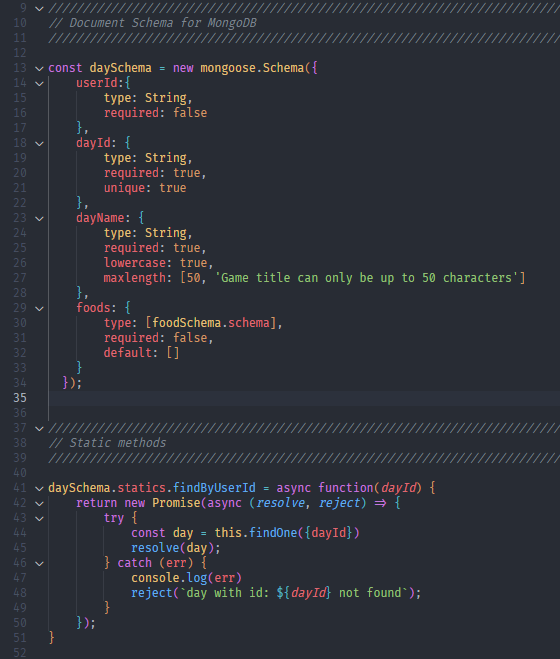
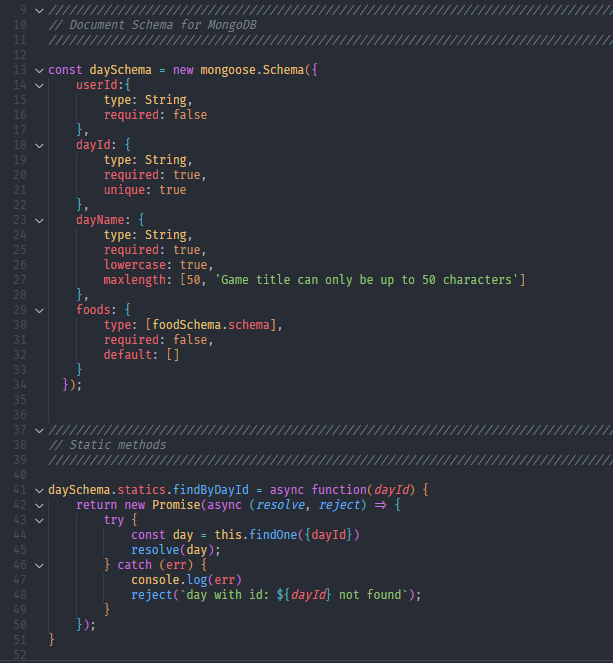
calorie tracker spelling mistakes altered

diff --git a/src/app/projectsList.ts b/src/app/projectsList.ts
@@ -35,15 +35,15 @@ export const PROJECTS: Project[] = [
         screenshot11: '../../../assets/images/calorieTracker/screenshot-11.png',
         screenshot11Description: 'The entry after a user has clicked the delete icon to remove a food object from this day. The food object is both deleted from the array of foods for this day, and the object is deleted from the database to avoid repeats. The calorie total is also updated automatically.',
         code1: '../../../assets/images/calorieTracker/code-1.png',
-        code1Description: 'The sever instance and routes for the backend of the application. As this app is designed to scale with more functionality, the MVC model has been used to allow for a structured folder and file system which enables far easier addition of new code. The middleware on line 68, causes all GET routes to check if a user is logged in before sending any resources. As seen below, some routes will "requireAuth", implementing required login state for certain areas of the application. Currently, the required routes are the "indexRoutes" for the home page, "authRoutes" to handle user login and "calorieRoutes" that handle requests from the front end in regards to the calorie tracking. Lines 75-77 show the catch-all used to allow the display of a custom 404 page if the user naviagates away from the avilable routes.',
+        code1Description: 'The sever instance and routes for the backend of the application. As this app is designed to scale with more functionality, the MVC model has been used to allow for a structured folder and file system which enables far easier addition of new code. The Middleware on line 68, causes all GET routes to check if a user is logged in before sending any resources. As seen below, some routes will "requireAuth", implementing required login state for certain areas of the application. Currently, the required routes are the "indexRoutes" for the home page, "authRoutes" to handle user login and "calorieRoutes" that handle requests from the front end in regards to the calorie tracking. Lines 75-77 show the catch-all used to allow the display of a custom 404 page if the user naviagates away from the avilable routes.',
         code2: '../../../assets/images/calorieTracker/code-2.png',
         code2Description: 'Middleware for the authentication. When users are logged in, a cookie is saved with the corresponding JSON Web Token (JWT) which this middle ware uses in each function. "requireAuth" checks for a cookie and goes to the next process in the stack with line 24 if it is valid, however if it doesnt not exist or is invalid, the user is redirecetd to the login page. This is applied to every endpoint that needs to be hidden from a non-logged in user - such as the page that displays eaten food. "checkUser" sets the local variable of "user" to the username if found so it can be displayed on the page in the header, if a user is not logged in this function simply passes the process along the stack with the user as null.',
         code3:  '../../../assets/images/calorieTracker/code-3.png',
         code3Description: 'A basic example from the controller, this is the index controller method called on a GET request to "/" and simply returns the index page. The EJS template for frontend views allows variables to be easily passed from the backend to the frontend. In this example the page title is set as "Home" and so the tab in the broswer will read "Calorie Tracker | Home". ',
         code4:  '../../../assets/images/calorieTracker/code-4.png',
-        code4Description: 'User authentication for this application requires the following routes, none of which include the "requireAuth" middleware. The function for each route can be found within the controller for authentication.',
+        code4Description: 'User authentication for this application requires the following routes, none of which include the "requireAuth" Middleware. The function for each route can be found within the controller for authentication.',
         code5:  '../../../assets/images/calorieTracker/code-5.png',
-        code5Description: 'Both of the GET requests respond with the approriate form to either login or create a new account. The signup form sends a POST request to "/signup" to add a new user where the controller function first deconstructs the request body to aquire the email, username and password. With this information, the a new "User" is added to the database and the token is created with their JWT, lasting 3 days after which the user will have to login back in. Similarly, the login form sends a POST request to "/login" where the User Schema\'s static method "login" is called to authenticate if that user exists in the database. If successful, the JWT cookie is created as before. In both cases, an unsuccessful login or signup will return a custom error handling object as seen below. To logout the cookie lifetime is set to 1 millisecond and so effectively is deleted.',
+        code5Description: 'Both of the GET requests respond with the approriate form to either login or create a new account. The signup form sends a POST request to "/signup" to add a new user where the controller function first deconstructs the request body to aquire the email, username and password. With this information, the a new "User" is added to the database and the token is created with their JWT, lasting 3 days after which the user will have to login back in. Similarly, the login form sends a POST request to "/login" where the User Schema\'s static method "login" is called to authenticate if that user exists in the database with Bcrypt compare. If successful, the JWT cookie is created as before. In both cases, an unsuccessful login or signup will return a custom error handling object as seen below. To logout the cookie lifetime is set to 1 millisecond and so effectively is deleted.',
         code6:  '../../../assets/images/calorieTracker/code-6.png',
         code6Description: 'When a user tries to login with an account that doesnt exist or signup with an already taken username, the database queries will fail and return an error. To aid the user, the exact nature of the failure is added to an error object sent back to the frontend after a failed POST request, allowing the frontend to display the error clearly.',
         code7:  '../../../assets/images/calorieTracker/code-7.png',
@@ -51,15 +51,15 @@ export const PROJECTS: Project[] = [
         code8:  '../../../assets/images/calorieTracker/code-8.png',
         code8Description: 'Mongoose allows for Schemas to have Hooks such as before and after saving a new object to the database. I have added a pre Hook to salt and hash passwords using the bcrypt library, which is an essential feature for security as it prevents user passwords being vunerable to data leaks or unauthorizied access as the .env file contains the JWT secret and is not uploaded to the GitHub thanks to .gitignore.',
         code9:  '../../../assets/images/calorieTracker/code-9.png',
-        code9Description: 'The "Day" Schema the template for day objects to be added to each user. As such, each contains a "userId" which associates it with the logged in user. This is not unique as there is a One to Many relationship occuring, where each user may have many days of tracking but each day object can only be associated with a single user. "dayId" is unique so no 2 day objects can be added for each user and is created by appending the "userId" onto the current day number - e.g. for user 777, day 1 would have the "dayId" 1777. Similarly to users, each day can contain foods, which is added as an array of food objects. It is not required as when it was required, no new days could be created without having already having food and since you cannot create a food object before a day, no new days would be added. The static method "findByUserId" was created to allow the calorie controller to return a day for a user given the "userId". Previously I was trying to use "findById" but this is a built in Mongoose method that uses the auto generated "_id" and so was causing errors. This allows the day to be found easily for use in the calorie controller.',
+        code9Description: 'The "Day" Schema the template for day objects to be added to each user. As such, each contains a "userId" which associates it with the logged in user. This is not unique as there is a One to Many relationship occuring, where each user may have many days of tracking but each day object can only be associated with a single user. "dayId" is unique so no 2 day objects can be added for each user and is created by appending the "userId" onto the current day number - e.g. for user 777, day 1 would have the "dayId" 1777. Similarly to users, each day can contain foods, which is added as an array of food objects. It is not required as when it was required, no new days could be created without having already having food and since you cannot create a food object before a day, no new days would be added. The static method "findByDayId" was created to allow the calorie controller to return a day for a user given the "dayId" witht he Mongoose method "findOne". Previously I was trying to use "findById" but this is a built in Mongoose method that uses the auto generated "_id" and so was causing errors. Since each day has been linked to the user and contains the day number for a unique dayId, the correct day can easily be found and returned.',
         code10: '../../../assets/images/calorieTracker/code-10.png',
         code10Description: 'For food, the "userDayId" field is populated with the "dayId" with the associated day with "-Number" appended. E.g. if user 777 added an apple to day 1, "userDayId" would be 1777-1. The name of each food added an calorie amount is aquired from an external database when the food is added via POST requets to "/calorie" in the backend to protect my API key located in the .env file.',
         code11: '../../../assets/images/calorieTracker/code-11.png',
-        code11Description: 'The header partial is applied to all pages and contains conditonal rendering between lines 33 and 48. If a user exists as seen previously from the authentication middleware, then display "Welcome username" and the logout button, else the login and signup buttons.',
+        code11Description: 'The header partial is applied to all pages and contains conditonal rendering between lines 33 and 48. If a user exists as seen previously from the authentication Middleware, then display "Welcome username" and the logout button, else the login and signup buttons.',
         code12: '../../../assets/images/calorieTracker/code-12.png',
         code12Description: 'An example of an EJS template. The partials included in each page are the header and footer components located in a seperate folder/file, similar to React or Angular. This pacticular page is for the login form.',
         code13: '../../../assets/images/calorieTracker/code-13.png',
-        code13Description: 'The routes for the calorie part of the application. The GET requests require the authentication middleware to prevent logged out users accessing the resources as everything is linked to users by Id.',
+        code13Description: 'The routes for the calorie part of the application. The GET requests require the authentication Middleware to prevent logged out users accessing the resources as everything is linked to users by Id.',
         code14: '../../../assets/images/calorieTracker/code-14.png',
         code14Description: 'When a user goes to "/days", this code is ran in the browser. A GET request to "/daysList" will return the array of day objects associated with that user. These are then iterated over to populate the table of days seen on the page. Each day is given the href of "/entry/:dayId" so clicking on each day will take you to the entry for said day.',
         code15: '../../../assets/images/calorieTracker/code-15.png',
@@ -67,23 +67,21 @@ export const PROJECTS: Project[] = [
         code16: '../../../assets/images/calorieTracker/code-16.png',
         code16Description: 'To add a day, a user enters a number into the bar at the top of the page and presses "Add". This form has an event listener as seen here that fires a POST request to "/days" with the number entered as dayName, validated by the client only allowing positive integers to be enetered. If this cannot be added to the database (due to a repeated day), the custom errors object is resolved and used to display to the user. ',
         code17: '../../../assets/images/calorieTracker/code-17.png',
-        code17Description: 'On the server side, the cookie is once again used to aquire the userId. A new object is then added to the database with a userId equal to the userId of the user logged in, and a dayId equal to the userId with the day number on appened to the beginning. The dayName is equal to "day" + number. Once sucessfully created, a new Promise is used push the new day object to the array of days on the user object - an example of where nested documents in NoSQL is helpful. These processes are surrouded by a try catch to ensure the errors can be handled if occuring.',
+        code17Description: 'On the server side, the cookie is once again used to aquire the userId. A new object is then added to the database with a userId equal to the userId of the user logged in, and a dayId equal to the userId with the day number on appened to the beginning. The dayName is equal to "day" + number. Once sucessfully created, a new Promise is used push the new day object to the array of days on the user object - an example of where nested documents in NoSQL is helpful. These processes are surrounded by a try catch to ensure the errors can be handled if occuring.',
         code18: '../../../assets/images/calorieTracker/code-18.png',
         code18Description: 'Since the URL parameters are added on the days page for navigation to this page, the entry page can be served with an EJS variable for the entry of foods for each day. Making a GET request to "/entry/:id" will fire this function in the controller. The URL parameters are deconstructed and passed into the static method of "findByDayId" on the Day Schema.' ,
-        code19: '../../../assets/images/calorieTracker/code-19.png',
-        code19Description: 'The static method of "findByDayId" on the Day Schema uses the dayId to query the database with the mongoose method "findOne" by field. Since each day has been linked to the user and contains the day number for a unique dayId, the correct day can easily be found and returned.' ,
-        code20: '../../../assets/images/calorieTracker/code-20.png',
-        code20Description: 'EJS allows for very simple rendering when given expected input. The entry page uses the "foodList" property rendered by the GET request for this page, which contains the foods array of the day clicked on. The array is then iterated through to populate the table and calculate the total calories. The user can add more food with the "Add A Food!" button or delete a food from this day with the red delete icon.' ,
-        code21: '../../../assets/images/calorieTracker/code-21.png',
-        code21Description: ' The user enters the food name and amount in the form (which is validated client side by only allowing text in the food name input and numbers in the grams input) and presses add, which fires this event listener. The first request is a POST to "/next" to calculate the id of the food to be added. The second request is to a POST to "/calorie". If successful, this will add a new food object to the database and append it to the food array for the day the user was adding to.' ,
-        code22: '../../../assets/images/calorieTracker/code-22.png',
-        code22Description: 'This function in the calorie controller is used to calculate the id of the new food. To ensure a unique Id, the "userDayId" field is populated with the "dayID" of the day being added to + "-" and the counter of added foods so far. E.g. for user 777, on day 1, the first food added will have the id of 1777-1, the second will be "1777-2, day 2 will be "2777-1" and so on. This method will work out the highest -number and return one higher. So in the event a food of -3 is deleted but -4 is still there, the next food will still be -5.' ,
-        code23: '../../../assets/images/calorieTracker/code-23.png',
-        code23Description: 'To aquire the data for the calorie amount, a 3rd party API is called (from the backend to hide my API key) with the query of food name and amount. Once the calorie number has been aquired, the correct day must be to get the correct mongoose "_id" to query. This "_id_" along with the dayId + "-" + "id of food", food name and calorie amount are used to create a new Food object. If successful, a Promise (as this may take some time) is then used to find the day and push the new Food object to the array of foods for the correct day. The id system used in this application allows for each day and food to easily be identified and queried.' ,
-        code24: '../../../assets/images/calorieTracker/code-24.png',
-        code24Description: 'Finally, if a user wants to delete a food from a paticular day, they can click on the red delete icon to do so from the entry page at "/entry/:id". Clicking this icon fires a DELETE requets to "/days" passing the dayId from the URL parameters and the id on the food (the "-num").' ,
-        code25: '../../../assets/images/calorieTracker/code-25.png',
-        code25Description: 'The delete function in the calorie controller for this endpoint does 2 things. Firstly, the "-id" property ("userDayId") is used to delete the food from the database. Secondly, the day this food is associated with is found by the static "findByDayId" as before to get the "_id". A Promise is then again used to remove the food from the foods array for that day.' ,
+        code19: '../../../assets/images/calorieTracker/code-20.png',
+        code19Description: 'EJS allows for very simple rendering when given expected input. The entry page uses the "foodList" property rendered by the GET request for this page, which contains the foods array of the day clicked on. The array is then iterated through to populate the table and calculate the total calories. The user can add more food with the "Add A Food!" button or delete a food from this day with the red delete icon.' ,
+        code20: '../../../assets/images/calorieTracker/code-21.png',
+        code20Description: ' The user enters the food name and amount in the form (which is validated client side by only allowing text in the food name input and numbers in the grams input) and presses add, which fires this event listener. The first request is a POST to "/next" to calculate the id of the food to be added. The second request is to a POST to "/calorie". If successful, this will add a new food object to the database and append it to the food array for the day the user was adding to.' ,
+        code21: '../../../assets/images/calorieTracker/code-22.png',
+        code21Description: 'This function in the calorie controller is used to calculate the id of the new food. To ensure a unique Id, the "userDayId" field is populated with the "dayID" of the day being added to + "-" and the counter of added foods so far. E.g. for user 777, on day 1, the first food added will have the id of 1777-1, the second will be "1777-2, day 2 will be "2777-1" and so on. This method will work out the highest -number and return one higher. So in the event a food of -3 is deleted but -4 is still there, the next food will still be -5.' ,
+        code22: '../../../assets/images/calorieTracker/code-23.png',
+        code22Description: 'To aquire the data for the calorie amount, a 3rd party API is called (from the backend to hide my API key) with the query of food name and amount. Once the calorie number has been aquired, the correct day must be to get the correct Mongoose "_id" to query. This "_id_" along with the dayId + "-" + "id of food", food name and calorie amount are used to create a new Food object. If successful, a Promise (as this may take some time) is then used to find the day and push the new Food object to the array of foods for the correct day. The id system used in this application allows for each day and food to easily be identified and queried.' ,
+        code23: '../../../assets/images/calorieTracker/code-24.png',
+        code23Description: 'Finally, if a user wants to delete a food from a paticular day, they can click on the red delete icon to do so from the entry page at "/entry/:id". Clicking this icon fires a DELETE requets to "/days" passing the dayId from the URL parameters and the id on the food (the "-num").' ,
+        code24: '../../../assets/images/calorieTracker/code-25.png',
+        code24Description: 'The delete function in the calorie controller for this endpoint does 2 things. Firstly, the "-id" property ("userDayId") is used to delete the food from the database. Secondly, the day this food is associated with is found by the static "findByDayId" as before to get the "_id". A Promise is then again used to remove the food from the foods array for that day.' ,
     },
     {
         id: 1,
@@ -95,7 +93,7 @@ export const PROJECTS: Project[] = [
         stamp: '../../../assets/images/stamps/personal-pink-clear.png',
         framework: '../../../assets/images/frameworkIcons/java-logo.png',
         screenshot1: '../../../assets/images/jigsawHelper/gui.png',
-        screenshot1Description: 'The GUI for this Java application. The application interface is split into the 3 key areas: "The Finished Puzzle", "The Indivdiual Piece" and "The Location!!!!". In the top left, a user can upload an image of the puzzle (such as from the box), see more information and view the full size image. The same functionality occurs where the user is invited to upload the puzzle piece they need help locating. The location section is where the user will recieve the answer to the loaction of the piece within the finished image, only once the 2 uploads have been carried out.',
+        screenshot1Description: 'The GUI for this Java application. The application interface is split into the 3 key areas: "The Finished Puzzle", "The Indivdiual Piece" and "The Location!!!!". In the top left, a user can upload an image of the puzzle (such as from the box), see more information and view the full size image. The same functionality occurs where the user is invited to upload the puzzle piece they need help locating. The location section is where the user will recieve the answer to the location of the piece within the finished image, only once the 2 uploads have been carried out.',
         screenshot2: '../../../assets/images/jigsawHelper/screenshot-2.png',
         screenshot2Description: 'After clicking on the "Find Piece" button, the program will draw a red box around the area most likely to contain the location of the piece. This is an example of a color search (conducted as there are no edges in the puzzle piece), which resulted in an excellent red box with the colour search because the colour in the piece was so vivid and unique to that area of the finished image.',
         screenshot3: '../../../assets/images/jigsawHelper/screenshot-3.png',
@@ -105,7 +103,7 @@ export const PROJECTS: Project[] = [
         screenshot5: '../../../assets/images/jigsawHelper/screenshot-5.png',
         screenshot5Description: 'The greyscale search for this image yeilded more than 10 possibilites for location, and so the top 10 would have been used for the blue box.',
         screenshot6: '../../../assets/images/jigsawHelper/screenshot-6.png',
-        screenshot6Description: 'The accompanying image shows both the greyscale and color searches respectively. The most edge here is the sharp color change from red to black. The color search foudn a more accurate likely location. However, the greyscale search had a better mean result. This is likely due to the color edge being repeated 3 times across the image - as seen by the middle edge being highlighted as mean, whereas the grey scale could not determine between the left/right and right/left edge color shift. The conclusions drawn from this study were that the color array algorigthm was more accurate for determining location as it considered an extra dimension of in the array. However, this caused a slower runtime - so the edge detction allowed the quicker greyscale search to be conducted where possible. The compression lossy suffered by images when uploaded to the applicationresulted in close but not exact matches. This uncertainty causes unreliability, so an optimisation that decreased the impact of compression lossy would be very beneficial.',
+        screenshot6Description: 'The accompanying image shows both the greyscale and color searches respectively. The most edge here is the sharp color change from red to black. The color search foudn a more accurate likely location. However, the greyscale search had a better mean result. This is likely due to the color edge being repeated 3 times across the image - as seen by the middle edge being highlighted as mean, whereas the grey scale could not determine between the left/right and right/left edge color shift. The conclusions drawn from this study were that the color array algorigthm was more accurate for determining location as it considered an extra dimension in the array. However, this caused a slower runtime - so the edge detction allowed the quicker greyscale search to be conducted where possible. The compression lossy suffered by images when uploaded to the application resulted in close but not exact matches. This uncertainty causes unreliability, so an optimisation that decreased the impact of compression lossy would be very beneficial.',
         code1: '../../../assets/images/jigsawHelper/code-1.png',
         code1Description: 'The method called by the completedFindButton() method in the GUI class CreateInterface to show the user where the piece fits, returning the LinkedHashMap "sortedMap" that contains all of the possible locations ranked by score (lower mean squared error is a better score) required to draw the rectangle onto the finished image. Initially the sobelDetector() method is called to acquire the edge flag Boolean so the program knows whether to use the coloured 3d array or greyscale 2d array for the search. The threshold for the mean squared error is lower for the colour array as it is a more thorough search and therefore must have a stricter criteria to be considered a possible location. The "sortedMap" LinkedHashMap is where the possible locations for the piece are stored, ordered by their mean square error score, so the most likely piece is at the first part of the array.',
         code2: '../../../assets/images/jigsawHelper/code-2.png',
@@ -126,23 +124,23 @@ export const PROJECTS: Project[] = [
         code9Description: 'This button is where the two classes link together, with the actionPerformed() method using a try/catch clause to call the launch() method from the LocationAlgorithm class. The resulting LinkedHashMap, ‘sortedMap’, populated by the launch() method uses the first 2 elements as the x and y coordinates for the top left of the box. The drawLocationRed() method is then called with the parameters using the most likely position of the piece, as the first x and y coordinates in the ‘answers’ array have the smallest mean squared error. The method also sets the fields ‘xCoord2’ and ‘yCoord2’ for use in the completedFullSizeButton by totalling the values of each x and y coordinate for the top  10 most likely positions (based on mean square error score) and putting the mean into an ArrayList for x and for y. The top 10 were chosen to represent the mean as some tests returned far too many answers for an accurate and representative mean, so the number is limited to 10. If the total number of locations found is less than 10, all options are considered in the mean calculations. Each of the positionOfPiece variables is the type cast array value from the correct value in the LinkedHashMap returned by LocationAlgorithm launch().',
         code10: '../../../assets/images/jigsawHelper/code-10.png',
         code10Description: 'An example of how the Java GUI elements are styled. The purpose of the completedFullSizeButton to also show the user other possible locations, seen by the ‘setText("Click Here To See All Possible Locations")’ method invoked on the button. The button shows the user the finished image in its full size in a new window along with as blue box that uses the fields ‘xCoord2’ and ‘yCoord2’ to draw a blue box around the mean of all possible locations. This method also redraws the same red box as before on the new window image.',
-        code11: '../../../assets/images/jigsawHelper/code-11.png',
-        code11Description: 'When a new piece is uploaded, the height and width are added to a global variable within this class. This allows the draw method to be draw a box the exact same size as the piece image.',
+        // code11: '../../../assets/images/jigsawHelper/code-11.png',
+        // code11Description: 'When a new piece is uploaded, the height and width are added to a global variable within this class. This allows the draw method to be draw a box the exact same size as the piece image.',
     },
     {
         id: 2,
         title: 'GitHub Searcher',
         url: 'https://dan-react-github-search.netlify.app/',
         GitHub: 'https://github.com/WalkingZ3d/github-tracker',
-        summary: 'A React front-end exclusive application to search for a given users repositories. This application makes uses of React routing, state, reducers amd useEffect() Hooks to achieve its result.',
-        description: 'A React front-end exclusive application to search for a given users repositories. This application makes uses of React routing, state, reducers amd useEffect() Hooks to achieve its result.',
+        summary: 'A React front-end exclusive application to search for a given users repositories. This application makes uses of React routing, state, reducers and useEffect() Hooks to achieve its result.',
+        description: 'A React front-end exclusive application to search for a given users repositories. This application makes uses of React routing, state, reducers and useEffect() Hooks to achieve its result.',
         picture: '../../../assets/images/repoSearcher/main-screenshot.png',
         stamp: '../../../assets/images/stamps/personal-pink-clear.png',
         framework: '../../../assets/images/frameworkIcons/react-logo.png',
         screenshot1: '../../../assets/images/repoSearcher/main-screenshot.png',
         screenshot1Description: 'The homepage for the GitHub repository searcher. To use, simply enter a valid GitHub username and press the "Search" button. This will fire a GET request using axios to the GitHub API to retrieve the publicly listed repositories for that user.',
         screenshot2: '../../../assets/images/repoSearcher/screenshot-2.png',
-        screenshot2Description: 'Once the GitHub API has been called, the page is populated with all of the titles of thats user\'s repositories. The user may choose how many results they want per page and use the "Next" and "Prev" buttons to navigate between pages of repositories. This page also includes a reset search button to allow a fresh search to be undertaken. When a user clicks on one of the titles, they are redirected to a new page with the searched username and title of the clicked repository in the URL parameters',
+        screenshot2Description: 'Once the GitHub API has been called, the page is populated with all of the titles of thats user\'s repositories. The user may choose how many results they want per page and use the "Next" and "Prev" buttons to navigate between pages of repositories. This page also includes a reset search button to allow a fresh search to be undertaken. When a user clicks on one of the titles, they are redirected to a new page with the searched username and title of the clicked repository in the URL parameters.',
         screenshot3: '../../../assets/images/repoSearcher/screenshot-3.png',
         screenshot3Description: 'The page for information on each repository uses the URL parameters of username and repository title to make an axios GET request for data about said repository. This information is then slotted into a custom card component and displayed to the user.',
         screenshot4: '../../../assets/images/repoSearcher/screenshot-4.png',
